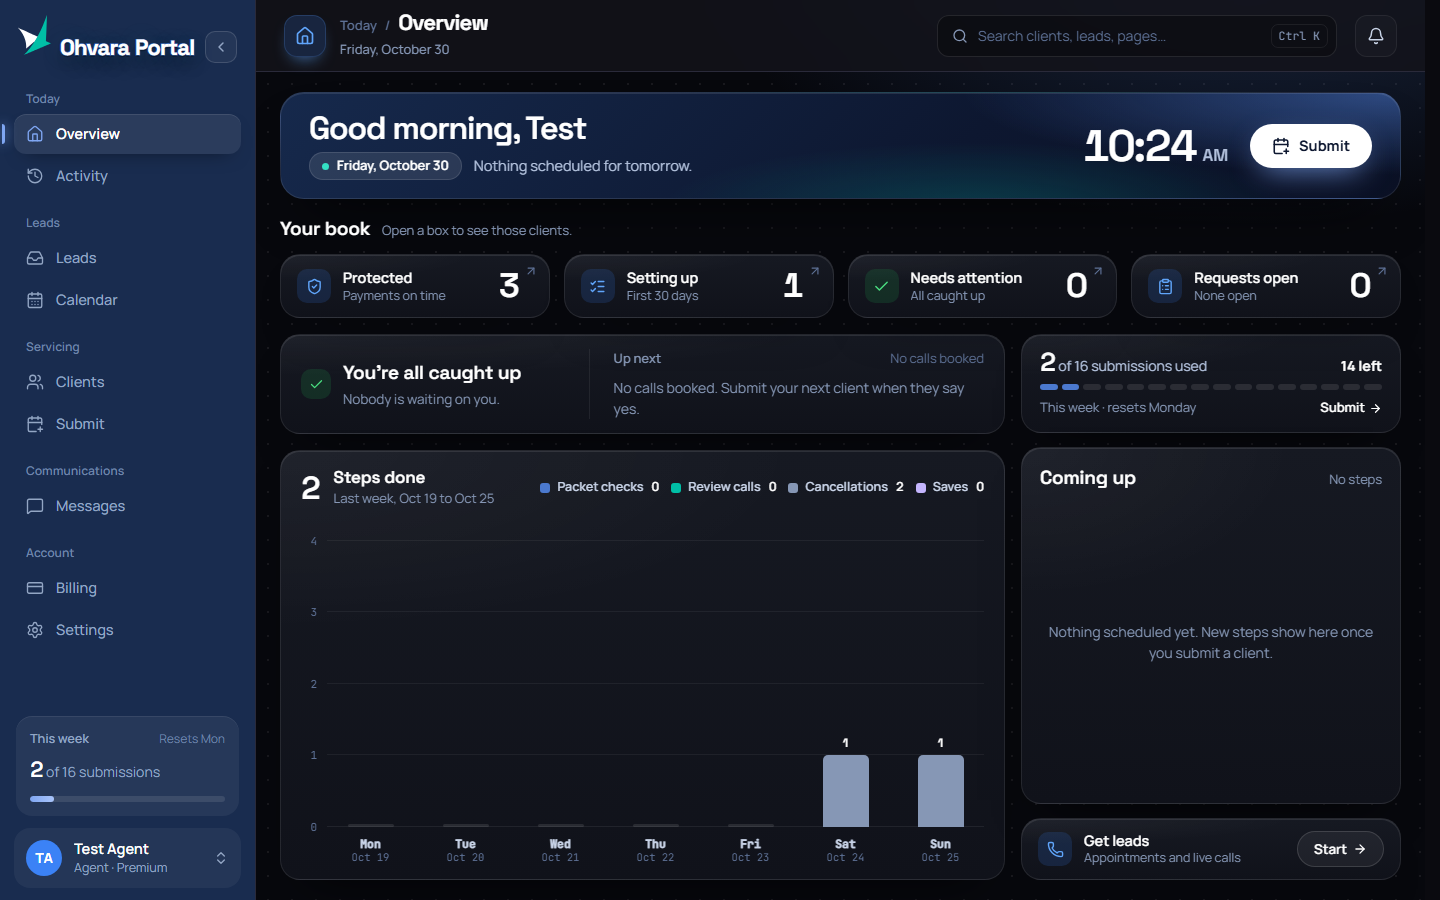
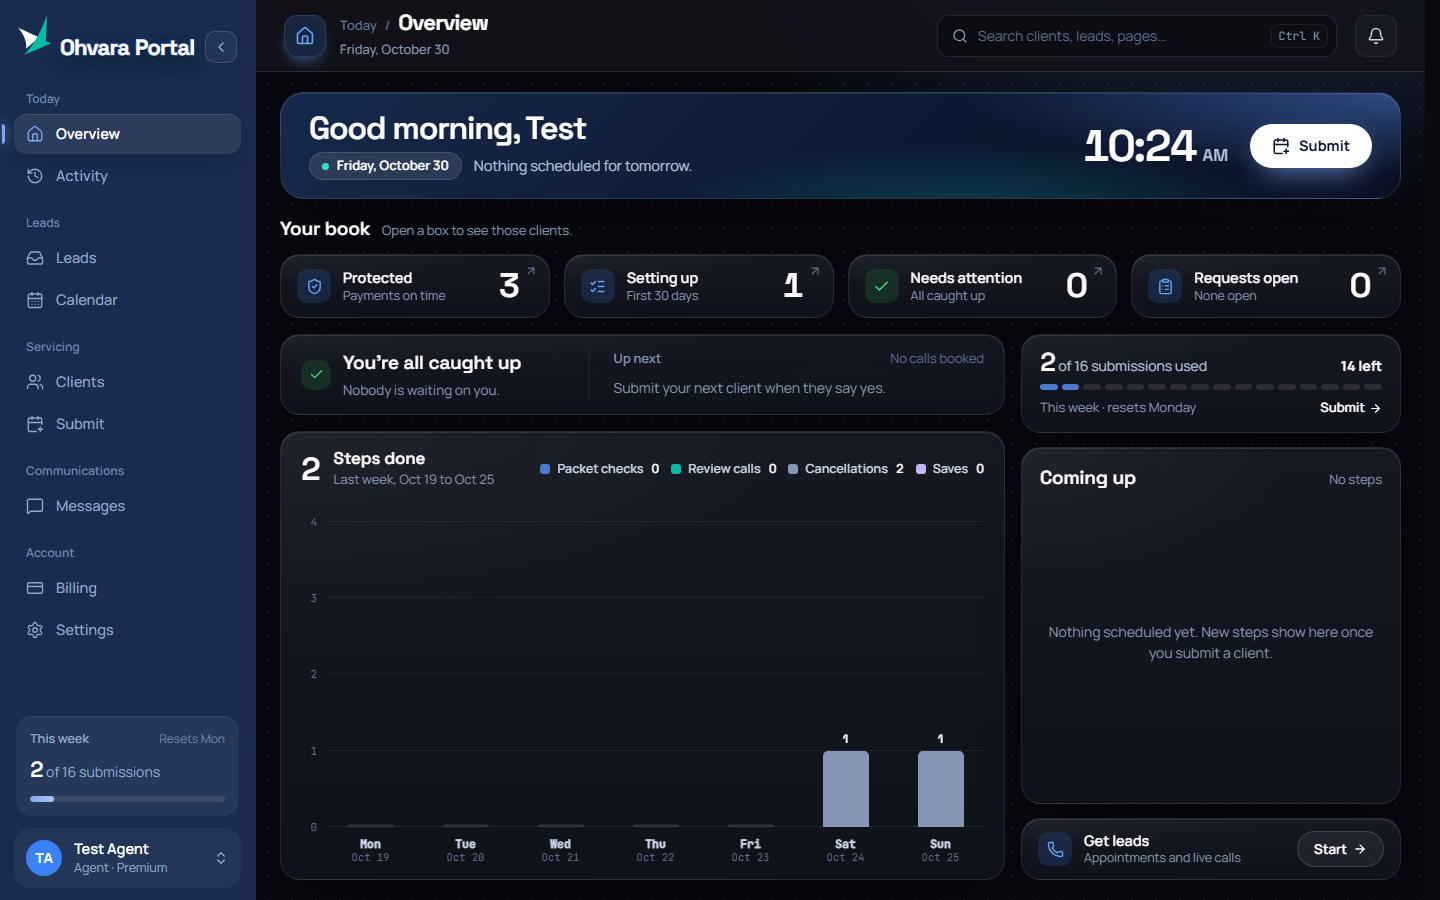
Slim Up next empty line is just 'Submit your next client when they say yes.' (header already says No calls booked); shots, map row

diff --git a/src/components/agent/AgentUI.jsx b/src/components/agent/AgentUI.jsx
@@ -3802,7 +3802,7 @@ export function ComingUpCard({ upcoming, now, onGo, fit, slim }) {
         <div className="ag-caught-r">
           <div className="ag-caught-h"><span>Up next</span><span>{n === 0 ? 'No calls booked' : `${n} ${n === 1 ? 'call' : 'calls'}`}</span></div>
           {n === 0 ? (
-            <p className="ag-caught-none">No calls booked. Submit your next client when they say yes.</p>
+            <p className="ag-caught-none">Submit your next client when they say yes.</p>
           ) : (
             <div className="ag-list">
               {upcoming.map(p => (
